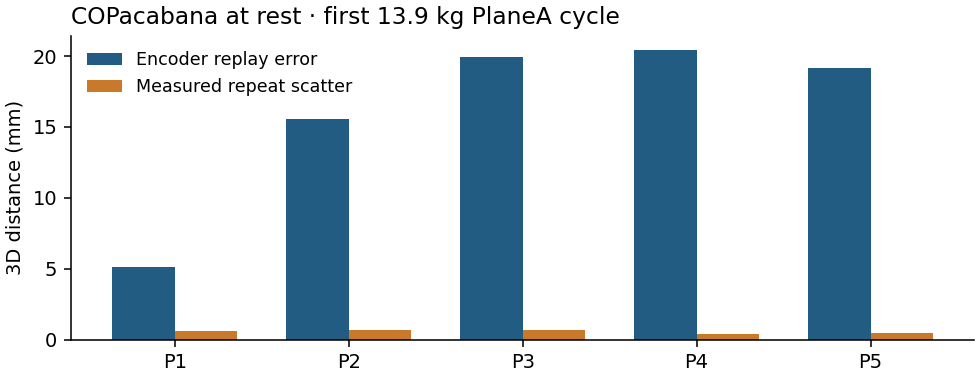
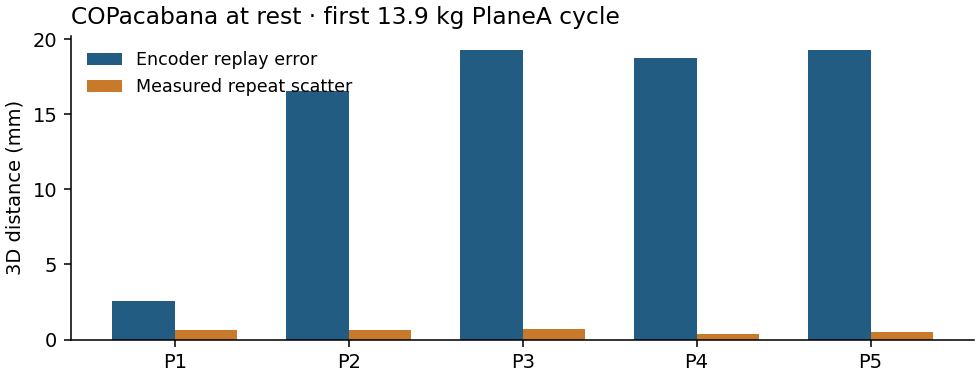
Refresh PlaneA validation with preserved initial cable tension

diff --git a/research/output/session-copacabana-planea/report.md b/research/output/session-copacabana-planea/report.md
@@ -1,6 +1,6 @@
 # COPacabana dynamic PlaneA replay
 
-The first 24.26 s of the 13.9 kg standard-control run give a useful split between drive tracking and cable mechanics. Feeding the eight recorded motor targets into the simulator gives 25.8 mm RMS reflector error. Substituting the encoder readings reduces it to 16.4 mm. The two inputs give nearly identical force errors, around 189 N RMS. Neither reaches the measured positional repeatability.
+The first 24.26 s of the 13.9 kg standard-control run give a useful split between drive tracking and cable mechanics. Feeding the eight recorded motor targets into the simulator gives 25.4 mm RMS reflector error. Substituting the encoder readings reduces it to 15.8 mm. The two inputs give nearly identical force errors, around 176 N RMS. Neither reaches the measured positional repeatability.
 
 ## Replay in hp-sim-3d
 
@@ -18,8 +18,8 @@ The validator samples predicted XYZ at the reflector and the platform-side const
 
 | Input or predictor | Reflector RMS (mm) | Peak (mm) | Cable force RMS (N) |
 |---|---:|---:|---:|
-| Recorded motor targets | 25.8 | 48.6 | 189.3 |
-| Recorded motor encoders | 16.4 | 21.6 | 189.4 |
+| Recorded motor targets | 25.4 | 48.8 | 176.6 |
+| Recorded motor encoders | 15.8 | 21.2 | 176.2 |
 | Logged Cartesian target plus fixed reflector offset | 27.0 | | |
 | Hold each cable at its measured P0 force | | | 184.8 |
 
@@ -27,15 +27,15 @@ The table below uses stationary intervals beginning 0.5 s after the platform tar
 
 | Pose | Encoder replay reflector RMS (mm) | Repeat scatter (mm) | Encoder replay force RMS (N) | Net force from measured tensions and gravity (N) |
 |---|---:|---:|---:|---:|
-| P1 | 5.1 | 0.63 | 91 | 126 |
-| P2 | 15.5 | 0.66 | 20 | 64 |
-| P3 | 19.9 | 0.70 | 26 | 77 |
-| P4 | 20.4 | 0.40 | 322 | 180 |
-| P5 | 19.2 | 0.48 | 236 | 88 |
+| P1 | 2.5 | 0.63 | 75 | 126 |
+| P2 | 16.5 | 0.66 | 16 | 64 |
+| P3 | 19.3 | 0.70 | 18 | 77 |
+| P4 | 18.8 | 0.40 | 303 | 180 |
+| P5 | 19.3 | 0.48 | 216 | 88 |
 
 ![Settled reflector error and measured repeat scatter by pose](settled-error.png)
 
-P4 is the clearest failure. Even after settling, the simulation misses the recorded cable forces by 322 N RMS. There is also an independent observability problem. Multiplying each measured force by its nominal span direction and adding the weight leaves 180 N of net force at P4. A stationary platform requires the actual external forces to balance. That calculation assumes the nominal platform orientation, the home pulley tangents and that the recorded forces act directly on the platform. Verifying force measurement location, transmission friction and actual attachment directions would help distinguish an error in that mapping from a material-law error. A single tracked point cannot resolve platform orientation. The results cover one standard-control cycle. Transfer to other payloads and adaptive control remains open.
+P4 is the clearest failure. Even after settling, the simulation misses the recorded cable forces by 303 N RMS. There is also an independent observability problem. Multiplying each measured force by its nominal span direction and adding the weight leaves 180 N of net force at P4. A stationary platform requires the actual external forces to balance. That calculation assumes the nominal platform orientation, the home pulley tangents and that the recorded forces act directly on the platform. Verifying force measurement location, transmission friction and actual attachment directions would help distinguish an error in that mapping from a material-law error. A single tracked point cannot resolve platform orientation. The results cover one standard-control cycle. Transfer to other payloads and adaptive control remains open.
 
 ## Reproduce
 
@@ -48,4 +48,4 @@ node scripts/reference_data/validate_4614_replay.mjs planeAEncoders
 
 With the raw measurements mounted, rebuild the comparison inputs with `.venv/bin/python scripts/reference_data/extract_4614_replay.py`. Recompile the nominal firmware examples with `.venv/bin/python scripts/compile_machine_commands.py --machine copacabana`.
 
[2 lines of base64/hex data omitted]

diff --git a/research/output/index.md b/research/output/index.md
@@ -292,7 +292,7 @@ One result sentence per session; follow the report for evidence.
 
 - [Autocal ranking, bounded updates and identifiability](session-b7deb1bcc9cb418388273e2b7b9adc8c/report.md) — Retrospective summary of saved evidence, written 2026-10-08.
 
-- [COPacabana PlaneA replay](session-copacabana-planea/report.md) — On the first 13.9 kg standard-control cycle, measured encoder replay reduced reflector RMS error from 25.8 to 16.4 mm while cable force error remained 189 N RMS.
+- [COPacabana PlaneA replay](session-copacabana-planea/report.md) — On the first 13.9 kg standard-control cycle, measured encoder replay reduced reflector RMS error from 25.4 to 15.8 mm while cable force error remained about 176 N RMS.
 
 - [Unassigned research session with unsuccessful exit](session-f9120c9b4bda4eaaa8eacff2cb00ece7/research.md) — Retrospective summary of saved evidence, written 2026-10-08.
 

diff --git a/research/output/session-copacabana-planea/abstract.md b/research/output/session-copacabana-planea/abstract.md
@@ -1,3 +1,3 @@
 # COPacabana PlaneA replay
 
-On the first 13.9 kg standard-control cycle, measured encoder replay reduced reflector RMS error from 25.8 to 16.4 mm while cable force error remained 189 N RMS. [Report](report.md)
+On the first 13.9 kg standard-control cycle, measured encoder replay reduced reflector RMS error from 25.4 to 15.8 mm while cable force error remained about 176 N RMS. [Report](report.md)
